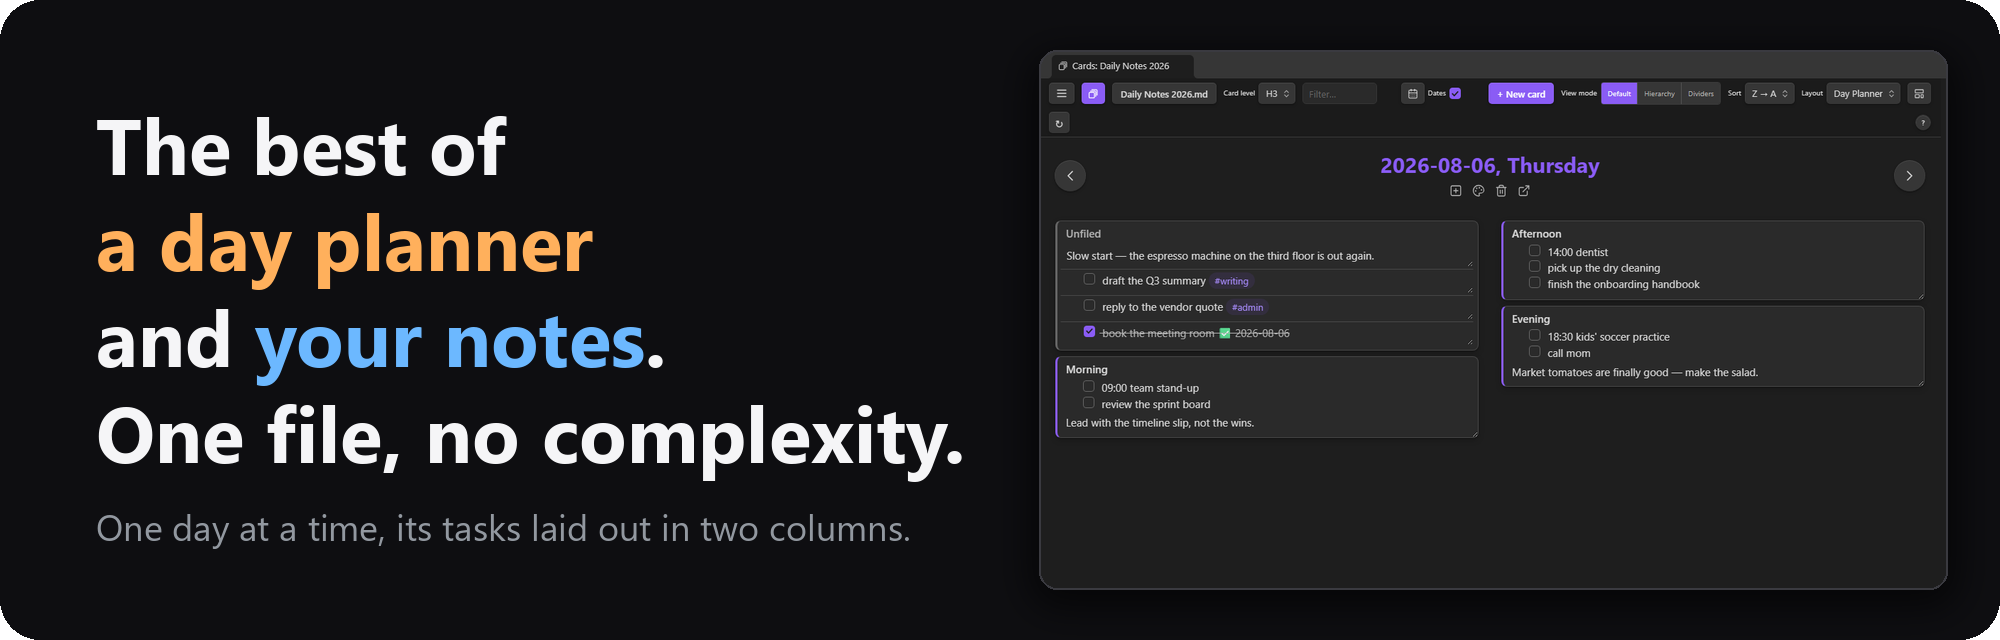
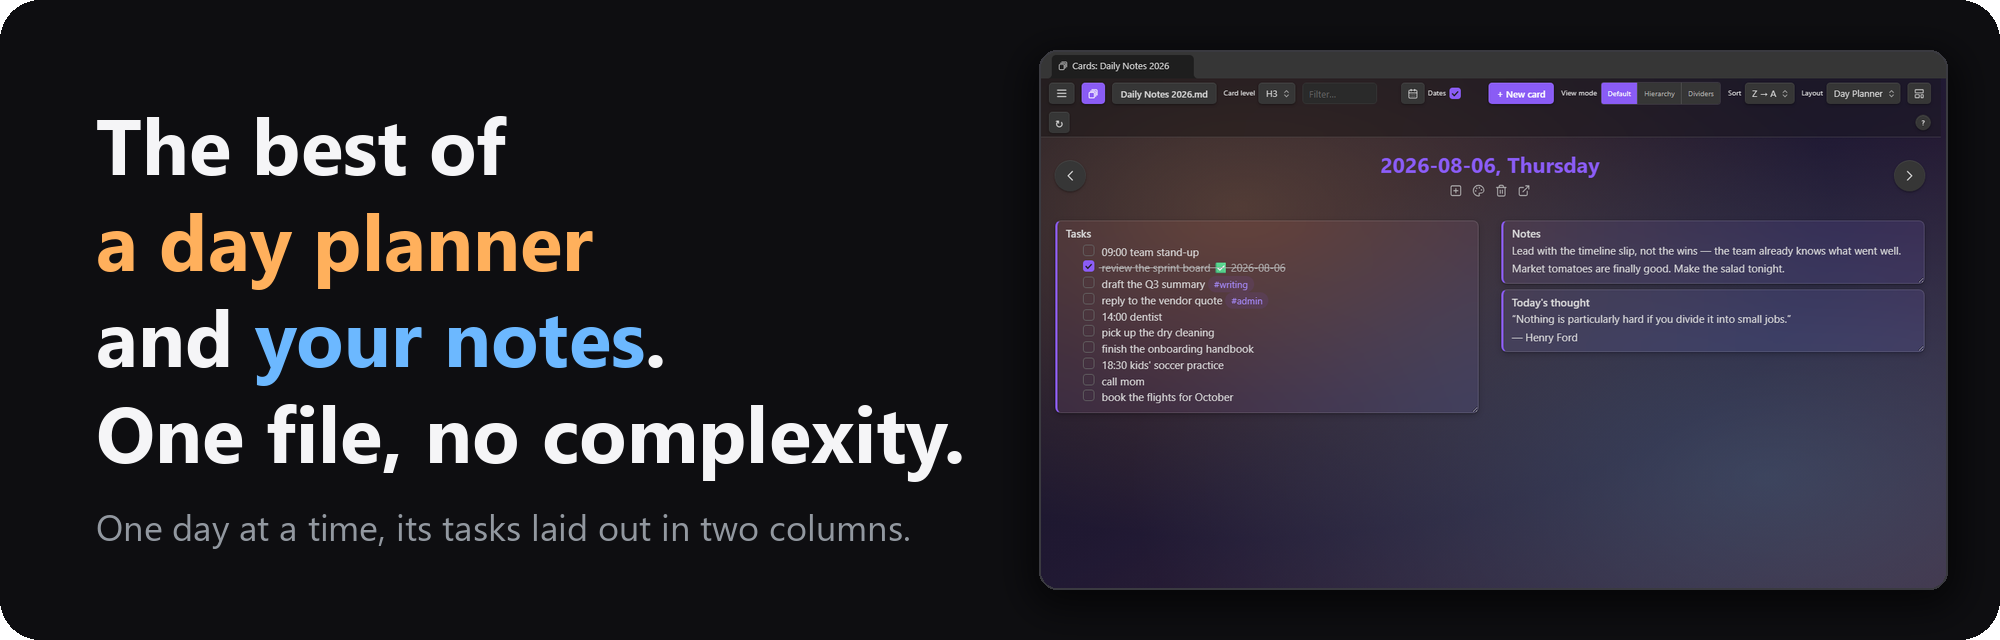
Screenshots: planner on a gradient with three subcards, Rolodex shot, blurred menu backdrop
The Day Planner shot and hero banner now sit on a twilight gradient, with
a tall Tasks subcard on the left and Notes plus a quote on the right
(tools/planner-hero-note.md). The Rolodex section gains its first
screenshot, on the plum gradient. The context-menu page blurs the app
behind the menu so only the menu is in focus. README: the Rolodex
description is two sentences and the Day Planner's three.

Changed region(s): [[0.496, 0.1875, 0.992, 0.9375]]

diff --git a/README.md b/README.md
@@ -132,26 +132,21 @@ One card per row, full pane width.
 
 ### Rolodex
 
-One card at a time, filling the pane, with every card's title as a tab across the top. A lone
-title spans the strip, two take half each, and so on; when a row can't hold them the strip grows
-to a second row, up to four, and past that it scrolls sideways — edge chevrons show where tabs
-are cut off, and the wheel over the strip scrolls it, while the wheel over the card scrolls its
-body. The `+` / `−` buttons at the strip's left edge force more or fewer rows. Click a tab (or
-press `,` / `.`) to turn to that card; drag a tab onto another to move its section there in the
-note (in document order, like dragging a card). Drag a paragraph or task from the card onto a
-tab to send it to that card.
+One card at a time, filling the pane, with every card's title as a tab across the top — the
+strip grows to more rows as titles pile up, and past four it scrolls sideways. Click a tab (or
+press `,` / `.`) to turn to that card, drag a tab onto another to move its section there in the
+note, or drag a paragraph or task from the card onto a tab to send it to that card.
+
+![Rolodex](screenshots/rolodex.png)
 
 ### Day Planner
 
-One day on one page. The card's title sits across the top with arrows to yesterday and
-tomorrow, and its contents spread over two columns: each sub-heading is a card of its own with
-its tasks inside, and the loose lines above them gather under **Unfiled**. Drag a card to the
-other column or into a new order, resize it, tick its tasks, or send it to the next day by
-dropping it on an arrow — the note changes underneath, and the arrangement is remembered per
-note. Cards you haven't placed flow into the two columns to balance them; a dragged card keeps
-its column until **Unpin from column** in its menu releases it. Stepping onto a day with no
-card offers to create it or to skip to the nearest day that has one. A card's color paints the
-title bar, and today's subcard wears the today ring.
+One day on one page: the card's title sits across the top with arrows to yesterday and
+tomorrow, and each sub-heading beneath it is a card of its own in one of two columns, its tasks
+inside. Drag a card to the other column or into a new order, resize it, tick its tasks, or send
+it to the next day by dropping it on an arrow — the note changes underneath, and the
+arrangement is remembered per note. Stepping onto a day with no card offers to create it or to
+skip to the nearest day that has one.
 
 ![Day Planner](screenshots/planner.png)
 

diff --git a/tools/planner-hero-note.md b/tools/planner-hero-note.md
@@ -3,25 +3,28 @@
 ## August
 
 ### 2026-08-06, Thursday
-Slow start — the espresso machine on the third floor is out again.
+
+#### Tasks
+- [ ] 09:00 team stand-up
+- [x] review the sprint board ✅ 2026-08-06
 - [ ] draft the Q3 summary #writing
 - [ ] reply to the vendor quote #admin
-- [x] book the meeting room ✅ 2026-08-06
-
-#### Morning
-- [ ] 09:00 team stand-up
-- [ ] review the sprint board
-Lead with the timeline slip, not the wins.
-
-#### Afternoon
 - [ ] 14:00 dentist
 - [ ] pick up the dry cleaning
 - [ ] finish the onboarding handbook
-
-#### Evening
 - [ ] 18:30 kids' soccer practice
 - [ ] call mom
-Market tomatoes are finally good — make the salad.
+- [ ] book the flights for October
+
+#### Notes
+Lead with the timeline slip, not the wins — the team already knows what went well.
+
+Market tomatoes are finally good. Make the salad tonight.
+
+#### Today's thought
+“Nothing is particularly hard if you divide it into small jobs.”
+
+— Henry Ford
 
 ### 2026-08-05, Wednesday
 - [ ] 11:00 design review [[Project Notes]]
